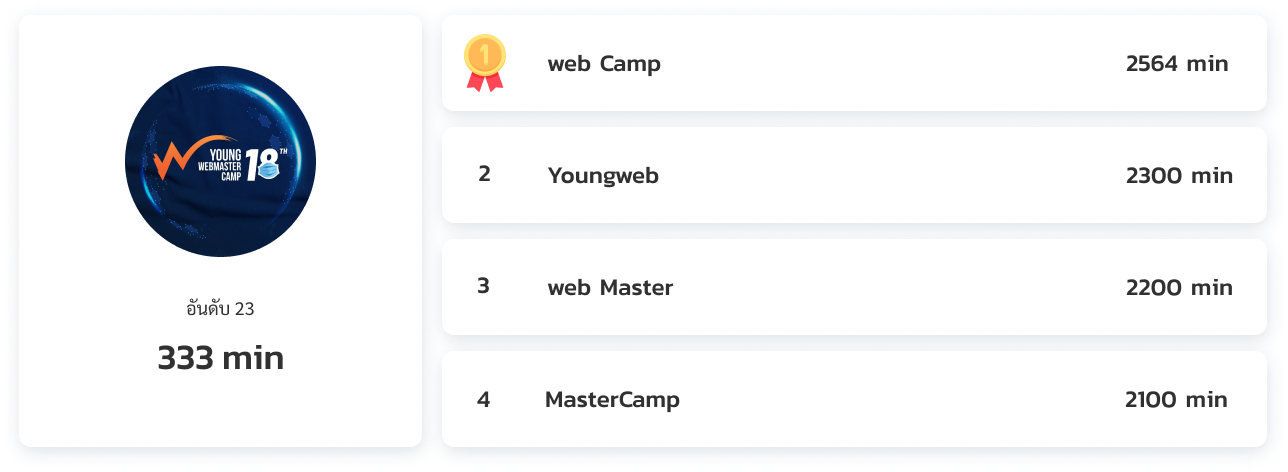
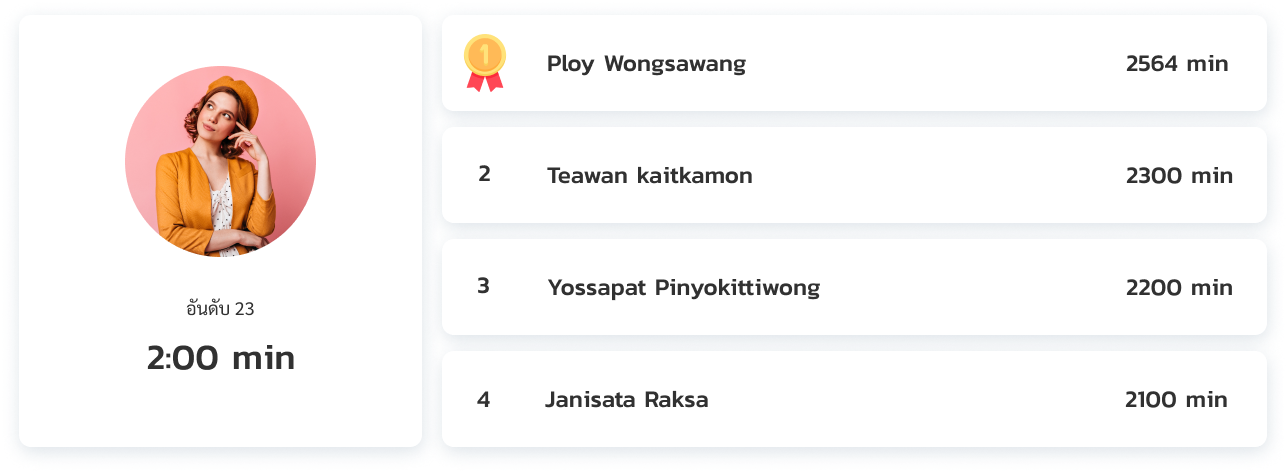
fix: add 12 days, new profile pic

diff --git a/src/components/PainQuestion3/index.tsx b/src/components/PainQuestion3/index.tsx
@@ -1,3 +1,4 @@
+import { useRouter } from 'next/dist/client/router'
 import {
   Dialog,
   DialogActions,
@@ -82,25 +83,32 @@ interface ConfirmDialogProps {
 }
 
 const ConfirmDialog: React.FC<ConfirmDialogProps> = ({ open, handleClose }) => {
+  const router = useRouter()
+
   const handleOK = () => {
-    // push noti
+    window.OneSignal?.push(() => {
+      window.OneSignal?.showSlidedownPrompt({ force: true })
+    })
+  }
+
+  const nextPage = () => {
+    router.push('/game')
   }
 
   return (
     <Dialog open={open} onClose={handleClose} aria-labelledby="responsive-dialog-title">
-      <DialogTitle id="responsive-dialog-title">ติมตามข่าวสาร ไม่พลาดทุกการแจ้งเตือน</DialogTitle>
+      <DialogTitle id="responsive-dialog-title">ไม่ต้องกลัวลืมยืดเส้นอีกต่อไป</DialogTitle>
       <DialogContent>
         <DialogContentText>
-          Let Google help apps determine location. This means sending anonymous location data to Google, even when no
-          apps are running.
+          เพียงแค่ท่านกดปุ่ม &quot;รับการแจ้งเตือน&quot; ท่านก็จะได้รับการแจ้งเตือนทุกๆ ครั้งเมื่อถึงเวลายืดเส้นของท่าน
         </DialogContentText>
       </DialogContent>
       <DialogActions>
-        <Button autoFocus onClick={handleClose} color="primary">
-          Disagree
+        <Button autoFocus onClick={nextPage} color="primary">
+          เอาไว้คราวหลัง
         </Button>
-        <Button onClick={handleOK} color="primary" autoFocus variant="contained">
-          OK
+        <Button onClick={nextPage} color="primary" autoFocus variant="contained">
+          รับการแจ้งเตือน
         </Button>
       </DialogActions>
     </Dialog>

diff --git a/src/pages/profile.tsx b/src/pages/profile.tsx
@@ -32,7 +32,7 @@ export default function Challenge() {
         <ProfRow>
           <Image src="/img/profile.png" alt="" />
           <div style={{ flex: '1 1 0', marginLeft: 16 }}>
-            <h2>YoungWebMaster Camp</h2>
+            <h2>Benjaporn Amornrat</h2>
             <div
               className={css`
                 background: #fce19b;
@@ -53,7 +53,7 @@ export default function Challenge() {
               `}
             >
               <div>
-                <b>เล่นไปทั้งหมด:</b> 1:41 นาที
+                <b>เล่นไปทั้งหมด:</b> 2:00 นาที
               </div>
               <div>
                 <b>ชาเลนจ์ทั้งหมด:</b> 1 ชาเลนจ์

diff --git a/src/pages/challenge.tsx b/src/pages/challenge.tsx
@@ -56,6 +56,12 @@ export default function Challenge() {
         >
           แล้วเจอกันอีกครั้งตอน {new Date().getHours() + 1}:00
         </p>
+        <h2>บันทึกรายเดือน (ส.ค.)</h2>
+        <Image src="/img/12day.png" alt="" width="1251" height="85" />
+        <br />
+        <div style={{ textAlign: 'right' }}>
+          <Button variant="outlined">ดูเพิ่มเติม</Button>
+        </div>
         <br />
         <p style={{ display: 'flex', alignItems: 'center' }}>
           คะแนนที่มี: 5&nbsp;&nbsp;

diff --git a/src/components/Navbar/index.tsx b/src/components/Navbar/index.tsx
@@ -1,3 +1,4 @@
+/* eslint-disable @next/next/no-img-element */
 import { Stack, Typography, Hidden } from '@material-ui/core'
 import Image from 'next/image'
 import Link from 'next/link'
@@ -38,7 +39,7 @@ const Navbar: React.FC<NavbarProps> = () => {
         </Link>
         <Link href="/profile" passHref>
           <StyledAvatar sizes="small" style={{ cursor: 'pointer' }}>
-            H
+            <img src="/img/profile.png" alt="" width="32" height="32" />
           </StyledAvatar>
         </Link>
       </Stack>
